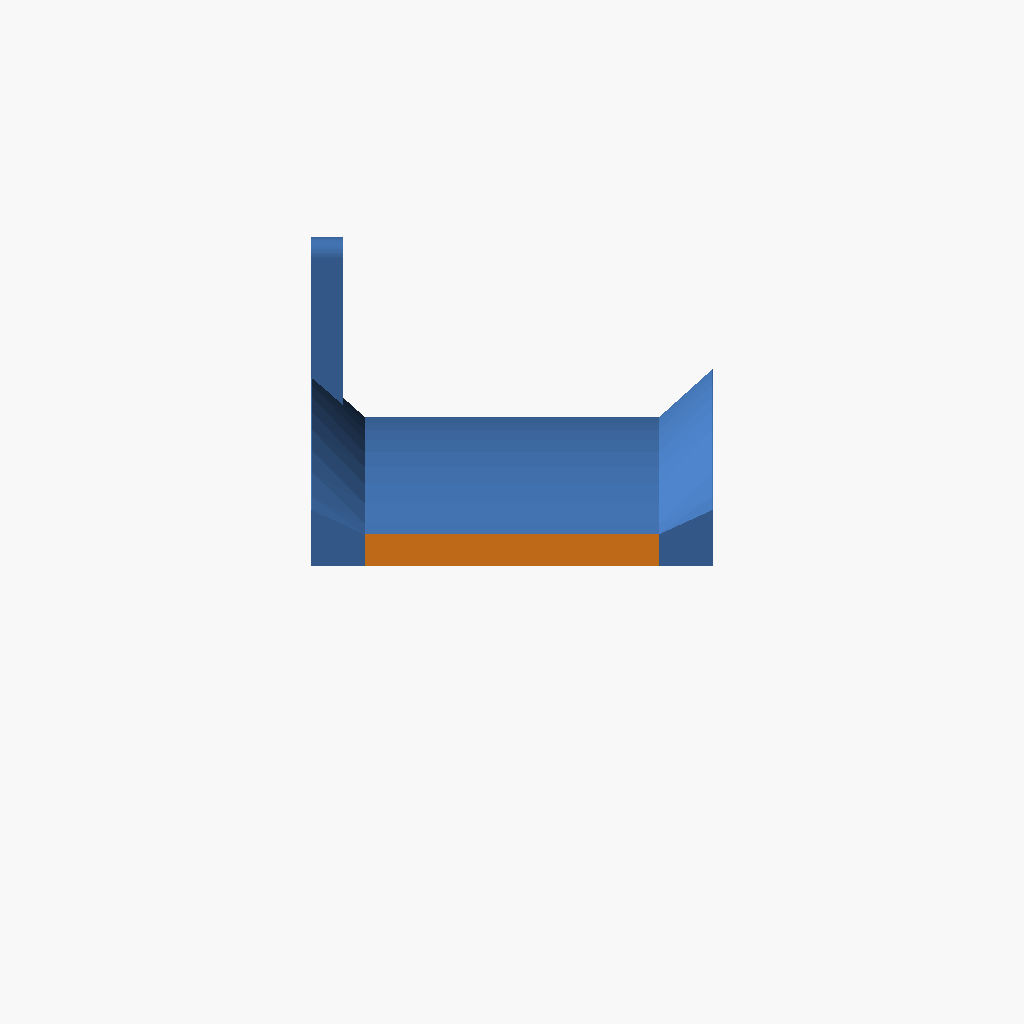
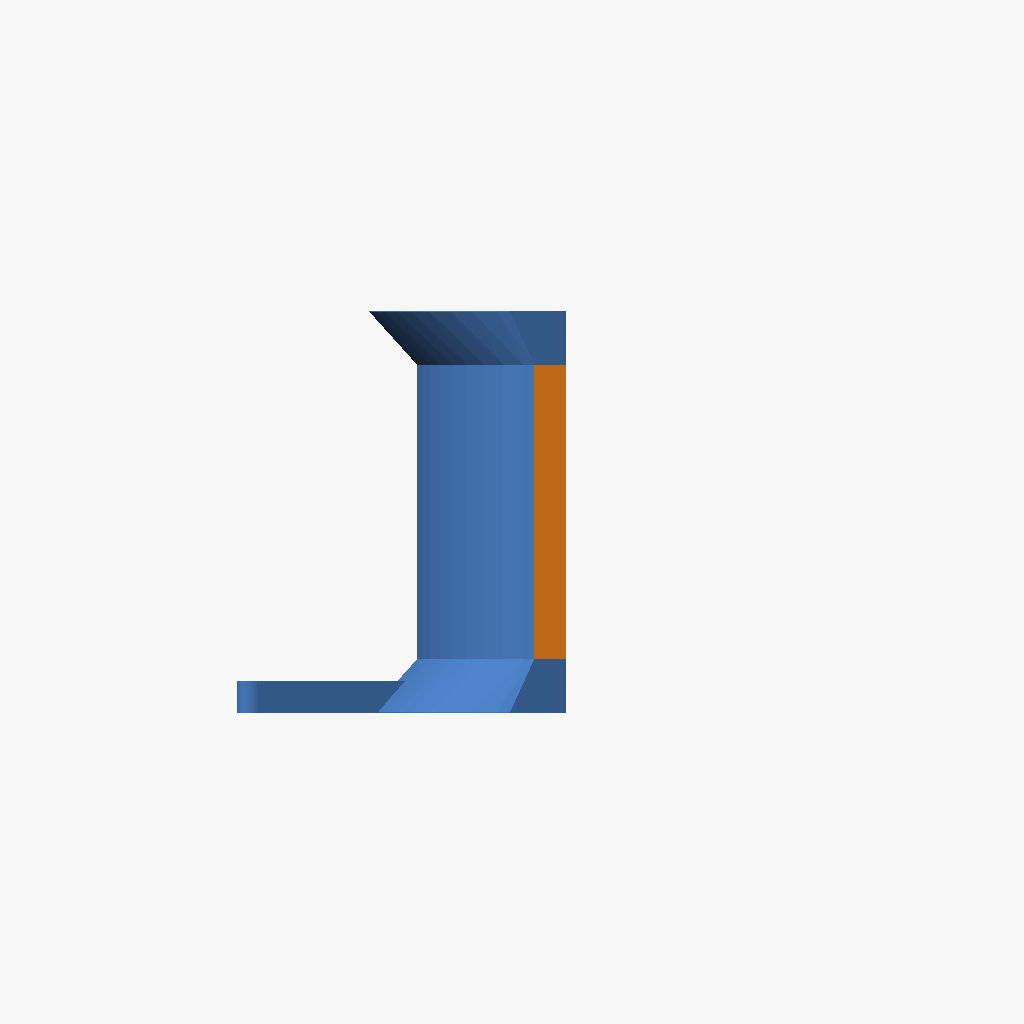
fix(disney_ear_hanger): correct print orientation, wall-mount semantics + attribution (pst-yfml)
Address the three codex-gate findings on PR #65 (source bead pst-15du):

1. Print orientation (HIGH): rigidly rotate the top-level earHanger()
   call so the flat mounting face lies on the bed and the arch extrudes
   straight up — the upstream orientation (constant vertical section →
   no supports, matching the profile's "no special settings"). Body
   geometry unchanged; PRINT_ANCHOR_BBOX updated 38.1x65x31.1 →
   31.1x65x38.1 and artifacts regenerated.

2. Install + parameter semantics (HIGH): it wall-mounts with double-
   sided tape / 3M Command strips (not a ledge/shelf/door hook), and
   hangerLength scales the saddle's projection/depth off the wall, not a
   captured edge span. Fixed the header, catalog blurb, @param label and
   preset labels.

3. Attribution (MEDIUM): credit "Disney Ear Hanger" by SpruceWayne
   (user_2791005939); note that MakerWorld id 469918 is the default
   print-profile/instance, not an author profile.

Upstream evidence: api.bambulab.com/v1/design-service/design/551375
(creator SpruceWayne uid 2791005939; "mount to the wall using double
sided tape or 3M Command strips"; "No special settings are needed").

Gates: npm test 218/218; invariants ok; CGAL export watertight at
hangerLength min/mid/max (15/37/60).

Claude-Session: https://claude.ai/code/session_01D4xNBqWdfqad5o8FrQJD32

🤖 Generated with [Claude Code](https://claude.com/claude-code)

Changed region(s): [[0.2188, 0.2188, 0.7188, 0.7188]]

diff --git a/lib/models/catalog.ts b/lib/models/catalog.ts
@@ -82,7 +82,7 @@ export const CATALOG: Record<string, CatalogEntry> = {
   disney_ear_hanger: {
     categoryId: "household",
     blurb:
-      "Saddle hook for Disney-style ear headbands (Mickey/Minnie) — drapes over a wall ledge, shelf lip, or door top with the headbands hanging on the arch. Remix of a MakerWorld model (CC BY-NC-SA 4.0, non-commercial); hangerLength tunes the edge span. See the file header for attribution.",
+      "Saddle hanger for Disney-style ear headbands (Mickey/Minnie) — wall-mounts with double-sided tape or 3M Command strips, and the headbands drape over the saddle arch. Remix of a MakerWorld model by SpruceWayne (CC BY-NC-SA 4.0, non-commercial); hangerLength tunes how far the saddle projects off the wall. See the file header for attribution.",
   },
   goblu_filter_holder_3x90mm: {
     categoryId: "household",
